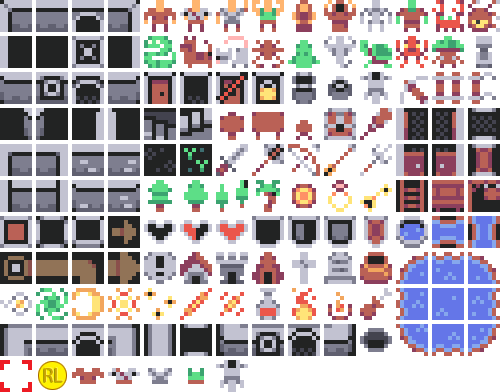
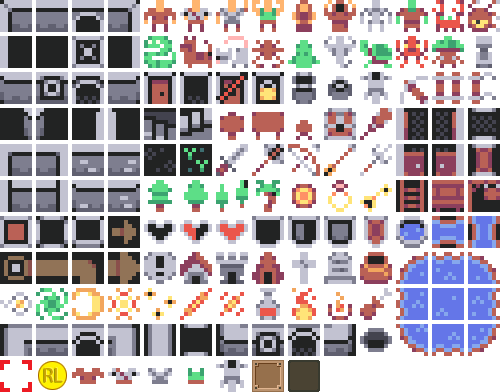
Inventory work on hud add gold to loot.

Changed region(s): [[0.48, 0.9184, 0.66, 1.0]]

diff --git a/RPG/game_hud.cpp b/RPG/game_hud.cpp
@@ -10,6 +10,78 @@ GameHudScreen::GameHudScreen(PlayerData& player)
 
 }
 
+void GameHudScreen::ShowItemToolTip(const Item* item, const Rectangle& rect)
+{
+	if (item == nullptr || !CheckCollisionPointRec(GetMousePosition(), rect))
+		return;
+
+	DrawRectangleRec(Rectangle{ rect.x,rect.y,100,100 }, ColorAlpha(BLACK, 0.75f));
+	DrawText(item->Name.c_str(), rect.x, rect.y, 10, WHITE);
+}
+
+void GameHudScreen::DrawInventory()
+{
+	Rectangle inventoryWindowRect = { GetScreenWidth() - 475.0f ,GetScreenHeight() - 500.0f, 354, 400.0f };
+	Rectangle shadowRect = inventoryWindowRect;
+	shadowRect.x += 10;
+	shadowRect.y += 10;
+	DrawRectangleRec(shadowRect, ColorAlpha(DARKBROWN, 0.5f));
+	FillRectWithSprite(InventoryBackgroundSprite, inventoryWindowRect);
+
+	// equipment
+	Item* weaponItem = GetItem(Player.EquipedWeapon);
+	if (DrawButton(inventoryWindowRect.x + 20, inventoryWindowRect.y + 20, weaponItem != nullptr ? weaponItem->Sprite : -1, DARKGRAY, GRAY))
+	{
+		HoveredItem = weaponItem;
+	}
+	DrawText("Weapon", inventoryWindowRect.x + 20 + ButtonSize + 2, inventoryWindowRect.y + 20, 20, DARKBROWN);
+
+	Item* armorItem = GetItem(Player.EquipedArmor);
+	if (DrawButton(inventoryWindowRect.x + inventoryWindowRect.width - (20 + ButtonSize), inventoryWindowRect.y + 20, armorItem != nullptr ? armorItem->Sprite : -1, DARKBROWN, BROWN))
+	{
+		HoveredItem = armorItem;
+	}
+	DrawText("Armor", inventoryWindowRect.x + inventoryWindowRect.width - (20 + ButtonSize + 62), inventoryWindowRect.y + ButtonSize, 20, DARKBROWN);
+
+	// backpack contents
+	constexpr int inventoryItemSize = 64;
+	constexpr int inventoryItemPadding = 4;
+
+	DrawText("Backpack", inventoryWindowRect.x + 10, inventoryWindowRect.y + 100, 20, DARKBROWN);
+
+
+	int itemIndex = 0;
+	for (int y = 0; y < 4; y++)
+	{
+		for (int x = 0; x < 5; x++)
+		{
+			int itemY = inventoryWindowRect.y + (inventoryWindowRect.height - inventoryItemPadding) - ((inventoryItemPadding + inventoryItemSize) * (4 - y));
+			int itemX = inventoryWindowRect.x + (inventoryItemPadding * 2) + ((inventoryItemSize + inventoryItemPadding) * x);
+
+			Rectangle itemRect = { itemX, itemY, inventoryItemSize, inventoryItemSize };
+			Rectangle shadowRect = itemRect;
+			shadowRect.x += 2;
+			shadowRect.y += 2;
+
+			DrawRectangleRec(shadowRect, ColorAlpha(BLACK, 0.5f));
+			FillRectWithSprite(ItemBackgroundSprite, itemRect);
+
+			if (itemIndex < Player.BackpackContents.size())
+			{
+				Item* item = GetItem(Player.BackpackContents[itemIndex].ItemId);
+				if (item != nullptr)
+				{
+					DrawSprite(item->Sprite, itemRect.x + itemRect.width / 2, itemRect.y + itemRect.height / 2);
+
+					if (CheckCollisionPointRec(GetMousePosition(), itemRect))
+						HoveredItem = item;
+				}
+			}
+			itemIndex++;
+		}
+	}
+}
+
 void GameHudScreen::Draw()
 {
 	float barHieght = GetScreenHeight() - 80.0f;
@@ -29,13 +101,16 @@ void GameHudScreen::Draw()
 	float healthPram = Player.Health / float(Player.MaxHealth);
 	DrawRectangleRec(Rectangle{ 22,barHieght + 32,healthBarWidth * healthPram - 4,28 }, RED);
 
+	// clear the hover item from last frame
+	HoveredItem = nullptr;
+
 	// action buttons
 	float buttonX = 20 + healthBarWidth + 10;
 	float buttonY = barHieght + 4;
 
+	Item* weapon = GetItem(Player.EquipedWeapon);
 	// equipped weapon
-	DrawButton(buttonX, buttonY, Player.EquipedWeapon, DARKGRAY, GRAY);
-
+	DrawButton(buttonX, buttonY, weapon != nullptr ? weapon->Sprite : -1, DARKGRAY, GRAY);
 
 	std::vector<int> activatableItems;
 	for (int i = 0; i < Player.BackpackContents.size(); i++)
@@ -47,29 +122,58 @@ void GameHudScreen::Draw()
 
 	// activatable items
 	int backpackSlot = 0;
-	for (int i = 0; i < 8; i++)
+	for (int i = 0; i < 7; i++)
 	{
 		buttonX += ButtonSize + 4;
 
-		int item = -1;
 		if (i < activatableItems.size())
 		{
-			item = Player.BackpackContents[activatableItems[i]].ItemId;
+			Item* item = GetItem(Player.BackpackContents[activatableItems[i]].ItemId);
+			if (DrawButton(buttonX, buttonY, item->Sprite) && item != nullptr)
+			{
+				if (IsMouseButtonPressed(MOUSE_BUTTON_LEFT))
+				{
+					// item clicked
+				}
+				else
+				{
+					HoveredItem = item;
+				}
+			}
 		}
-
-		DrawButton(buttonX, buttonY, item);
 	}
 
 	buttonX += ButtonSize + 4;
-	DrawSprite(BagSprite, buttonX + ButtonSize/2, buttonY + ButtonSize/2, 0, 1.5f);
+	if (DrawButton(buttonX, buttonY, BagSprite, GRAY, LIGHTGRAY) && IsMouseButtonPressed(MOUSE_BUTTON_LEFT))
+	{
+		InventoryOpen = !InventoryOpen;
+	}
+
+	if (InventoryOpen)
+		DrawInventory();
+
+	if (HoveredItem != nullptr)
+	{
+		Vector2 size = MeasureTextEx(GetFontDefault(), HoveredItem->Name.c_str(), 20, 2);
+		Rectangle toolTipRect = { GetMousePosition().x - (size.x/2 + 2), GetMousePosition().y - (size.y + 2), size.x + 4, size.y + 4 };
+
+		DrawRectangleRec(toolTipRect, ColorAlpha(BLACK, 0.5f));
+		DrawText(HoveredItem->Name.c_str(), toolTipRect.x + 2, toolTipRect.y + 2, 20, WHITE);
+	}
 }
 
-void GameHudScreen::DrawButton(float x, float y, int itemId, Color border, Color center )
+bool GameHudScreen::DrawButton(float x, float y, int sprite, Color border, Color center )
 {
-	Item* item = GetItem(itemId);
-	DrawRectangleRec(Rectangle{ x, y, ButtonSize, ButtonSize }, border);
+	Rectangle buttonRect = { x, y, ButtonSize, ButtonSize };
+	DrawRectangleRec(buttonRect, border);
 	DrawRectangleRec(Rectangle{ x + ButtonInset, y + ButtonInset, ButtonSize - ButtonInset * 2, ButtonSize - ButtonInset * 2 }, center);
 
-	if (item)
-		DrawSprite(item->Sprite, x + ButtonSize / 2, y + ButtonSize / 2, 0, 2);
+	if (sprite != -1)
+	{
+		Vector2 center = { x + ButtonSize / 2, y + ButtonSize / 2 };
+		DrawSprite(sprite, center.x+2, center.y+2, 0, 2, BLACK);
+	;	DrawSprite(sprite, center.x, center.y, 0, 2);
+	}
+
+	return CheckCollisionPointRec(GetMousePosition(), buttonRect);
 }

diff --git a/RPG/sprites.cpp b/RPG/sprites.cpp
@@ -11,6 +11,8 @@ struct SpriteInfo
 	int TextureId = -1;
 	Rectangle SourceRect = { 0,0,0,0 };
 	Vector2 Origin = { 0,0 };
+
+	Rectangle Borders = { 0,0,0,0 };
 };
 
 std::vector<SpriteInfo> Sprites;
@@ -52,6 +54,32 @@ void SetSpriteOrigin(int spriteId, int x, int y)
 	SpriteInfo& sprite = Sprites[spriteId];
 	sprite.Origin.x = float(x);
 	sprite.Origin.y = float(y);
+}
+
+void SetSpriteBorders(int spriteId, int left, int top, int right, int bottom)
+{
+	if (spriteId < 0 || spriteId >= int(Sprites.size()))
+		return;
+
+	SpriteInfo& sprite = Sprites[spriteId];
+	sprite.Borders.x = float(left);
+	sprite.Borders.y = float(top);
+
+	sprite.Borders.width = float(right);
+	sprite.Borders.height = float(bottom);
+}
+
+void SetSpriteBorders(int spriteId, int inset)
+{
+	if (spriteId < 0 || spriteId >= int(Sprites.size()))
+		return;
+
+	SpriteInfo& sprite = Sprites[spriteId];
+	sprite.Borders.x = float(inset);
+	sprite.Borders.y = float(inset);
+
+	sprite.Borders.width = float(sprite.SourceRect.width - inset);
+	sprite.Borders.height = float(sprite.SourceRect.height - inset);
 }
 
 void CenterSprite(int spriteId)
@@ -105,5 +133,30 @@ void FillRectWithSprite(int spriteId, const Rectangle& rect, Color tint, uint8_t
 	if (flip && SpriteFlipY == 0)
 		source.height *= -1;
 
-	DrawTextureTiled(GetTexture(sprite.TextureId), source, rect, Vector2{ 0, 0 }, rotation, 1, tint);
+	if (sprite.Borders.width != 0 || sprite.Borders.height != 0)
+	{
+		NPatchInfo info;
+		info.source = source;
+		info.left = sprite.Borders.x;
+		info.right = sprite.Borders.width;
+		info.top = sprite.Borders.y;
+		info.bottom = sprite.Borders.height;
+		info.layout = NPATCH_NINE_PATCH;
+
+		DrawTextureNPatch(GetTexture(sprite.TextureId), info, rect, Vector2{ 0,0 }, rotation, tint);
+	}
+	else
+	{
+		Rectangle source = sprite.SourceRect;
+		float rotation = 0;
+
+		if (flip && SpriteFlipDiagonal == 0)
+			rotation += 90;
+		if (flip && SpriteFlipX == 0)
+			source.width *= -1;
+		if (flip && SpriteFlipY == 0)
+			source.height *= -1;
+
+		DrawTextureTiled(GetTexture(sprite.TextureId), source, rect, Vector2{ 0, 0 }, rotation, 1, tint);
+	}
 }

diff --git a/RPG/include/sprites.h b/RPG/include/sprites.h
@@ -11,6 +11,8 @@
 
 void LoadSpriteFrames(int textureId, int colums, int rows, int spacing);
 void SetSpriteOrigin(int spriteId, int x, int y);
+void SetSpriteBorders(int spriteId, int left, int top, int right, int bottom);
+void SetSpriteBorders(int spriteId, int inset);
 void CenterSprite(int spriteId);
 
 void DrawSprite(int spriteId, float x, float y, float rotation = 0, float scale = 1, Color tint = { 255, 255, 255, 255 }, uint8_t flip = SpriteFlipNone);
@@ -21,6 +23,9 @@ constexpr int BackgroundSprite = 60;
 constexpr int PlayerSprite = 5;
 constexpr int ClickTargetSprite = 140;
 constexpr int CoinSprite = 141;
+constexpr int InventoryBackgroundSprite = 147;
+constexpr int ItemBackgroundSprite = 148;
+
 constexpr int BagSprite = 108;
 constexpr int SwordSprite = 62;
 constexpr int LeatherArmorSprite = 142;

diff --git a/RPG/include/game_hud.h b/RPG/include/game_hud.h
@@ -2,6 +2,7 @@
 
 #include "screens.h"
 #include "game.h"
+#include "items.h"
 
 class GameHudScreen : public Screen
 {
@@ -13,9 +14,15 @@ public:
 	PlayerData& Player;
 
 private:
-	void DrawButton(float x, float y, int sprite = -1, Color border = BROWN, Color center = BEIGE);
+	bool DrawButton(float x, float y, int itemId = -1, Color border = BROWN, Color center = BEIGE);
+	void DrawInventory();	
+	void ShowItemToolTip(const Item* item, const Rectangle& rect);
 
 private:
 	float ButtonSize = 70;
 	float ButtonInset = 6;
+
+	bool InventoryOpen = false;
+
+	const Item* HoveredItem = nullptr;
 };

diff --git a/RPG/game.cpp b/RPG/game.cpp
@@ -38,6 +38,7 @@ void LoadLevel(const char* level)
 
 	Player.Sprite = AddSprite(PlayerSprite, Player.Position);
 	Player.Sprite->Bobble = true;
+	Player.Sprite->Shadow = true;
 }
 
 void StartLevel()
@@ -132,7 +133,10 @@ void OpenChest(Chest* chest, Vector2& dropPoint)
 		if (!itemRecord)
 			continue;
 
-		item.SpriteId = AddSprite(itemRecord->Sprite, item.Position)->Id;
+		auto* sprite = AddSprite(itemRecord->Sprite, item.Position);
+		sprite->Shadow = true;
+		sprite->Bobble = true;
+		item.SpriteId = sprite->Id;
 
 		ItemDrops.emplace_back(std::move(item));
 	}

diff --git a/RPG/map.cpp b/RPG/map.cpp
@@ -22,7 +22,6 @@ Camera2D& GetMapCamera()
 	return MapCamera;
 }
 
-
 bool PointInMap(const Vector2& point)
 {
 	if (!CheckCollisionPointRec(point, MapBounds))
@@ -94,6 +93,9 @@ void DrawMap()
 			float offset = 0;
 			if (sprite.Bobble)
 				offset =  fabsf(sinf(float(GetTime() * 5)) * 3);
+
+			if (sprite.Shadow)
+				DrawSprite(sprite.SpriteFrame, sprite.Position.x+2, sprite.Position.y+2 + offset, 0.0f, 1.0f, ColorAlpha(BLACK,0.5f));
 
 			DrawSprite(sprite.SpriteFrame, sprite.Position.x, sprite.Position.y + offset, 0.0f, 1.0f, sprite.Tint);
 		}

diff --git a/RPG/treasure.cpp b/RPG/treasure.cpp
@@ -10,5 +10,11 @@ std::vector<TreasureInstance> GetLoot(const std::string& loot_name)
 	else if (loot_name == "tutorial_loot_1")
 		loot.emplace_back(TreasureInstance{ SwordItem });
 
+
+	// random gold
+	int value = GetRandomValue(1, 20);
+	loot.emplace_back(TreasureInstance{ GoldBagItem,value });
+
+
 	return loot;
 }

diff --git a/RPG/loading.cpp b/RPG/loading.cpp
@@ -107,6 +107,9 @@ void FinalizeLoad()
 	CenterSprite(ClickTargetSprite);
 	CenterSprite(CoinSprite);
 
+	SetSpriteBorders(InventoryBackgroundSprite, 10);
+	SetSpriteBorders(ItemBackgroundSprite, 10);
+
 	SetupDefaultItems();
 }
 

diff --git a/RPG/include/map.h b/RPG/include/map.h
@@ -28,6 +28,7 @@ struct SpriteInstance
 	Vector2 Position = { 0,0 };
 	Color Tint = WHITE;
 	bool Bobble = false;
+	bool Shadow = true;
 };
 
 SpriteInstance* AddSprite(int frame, const Vector2& position);
